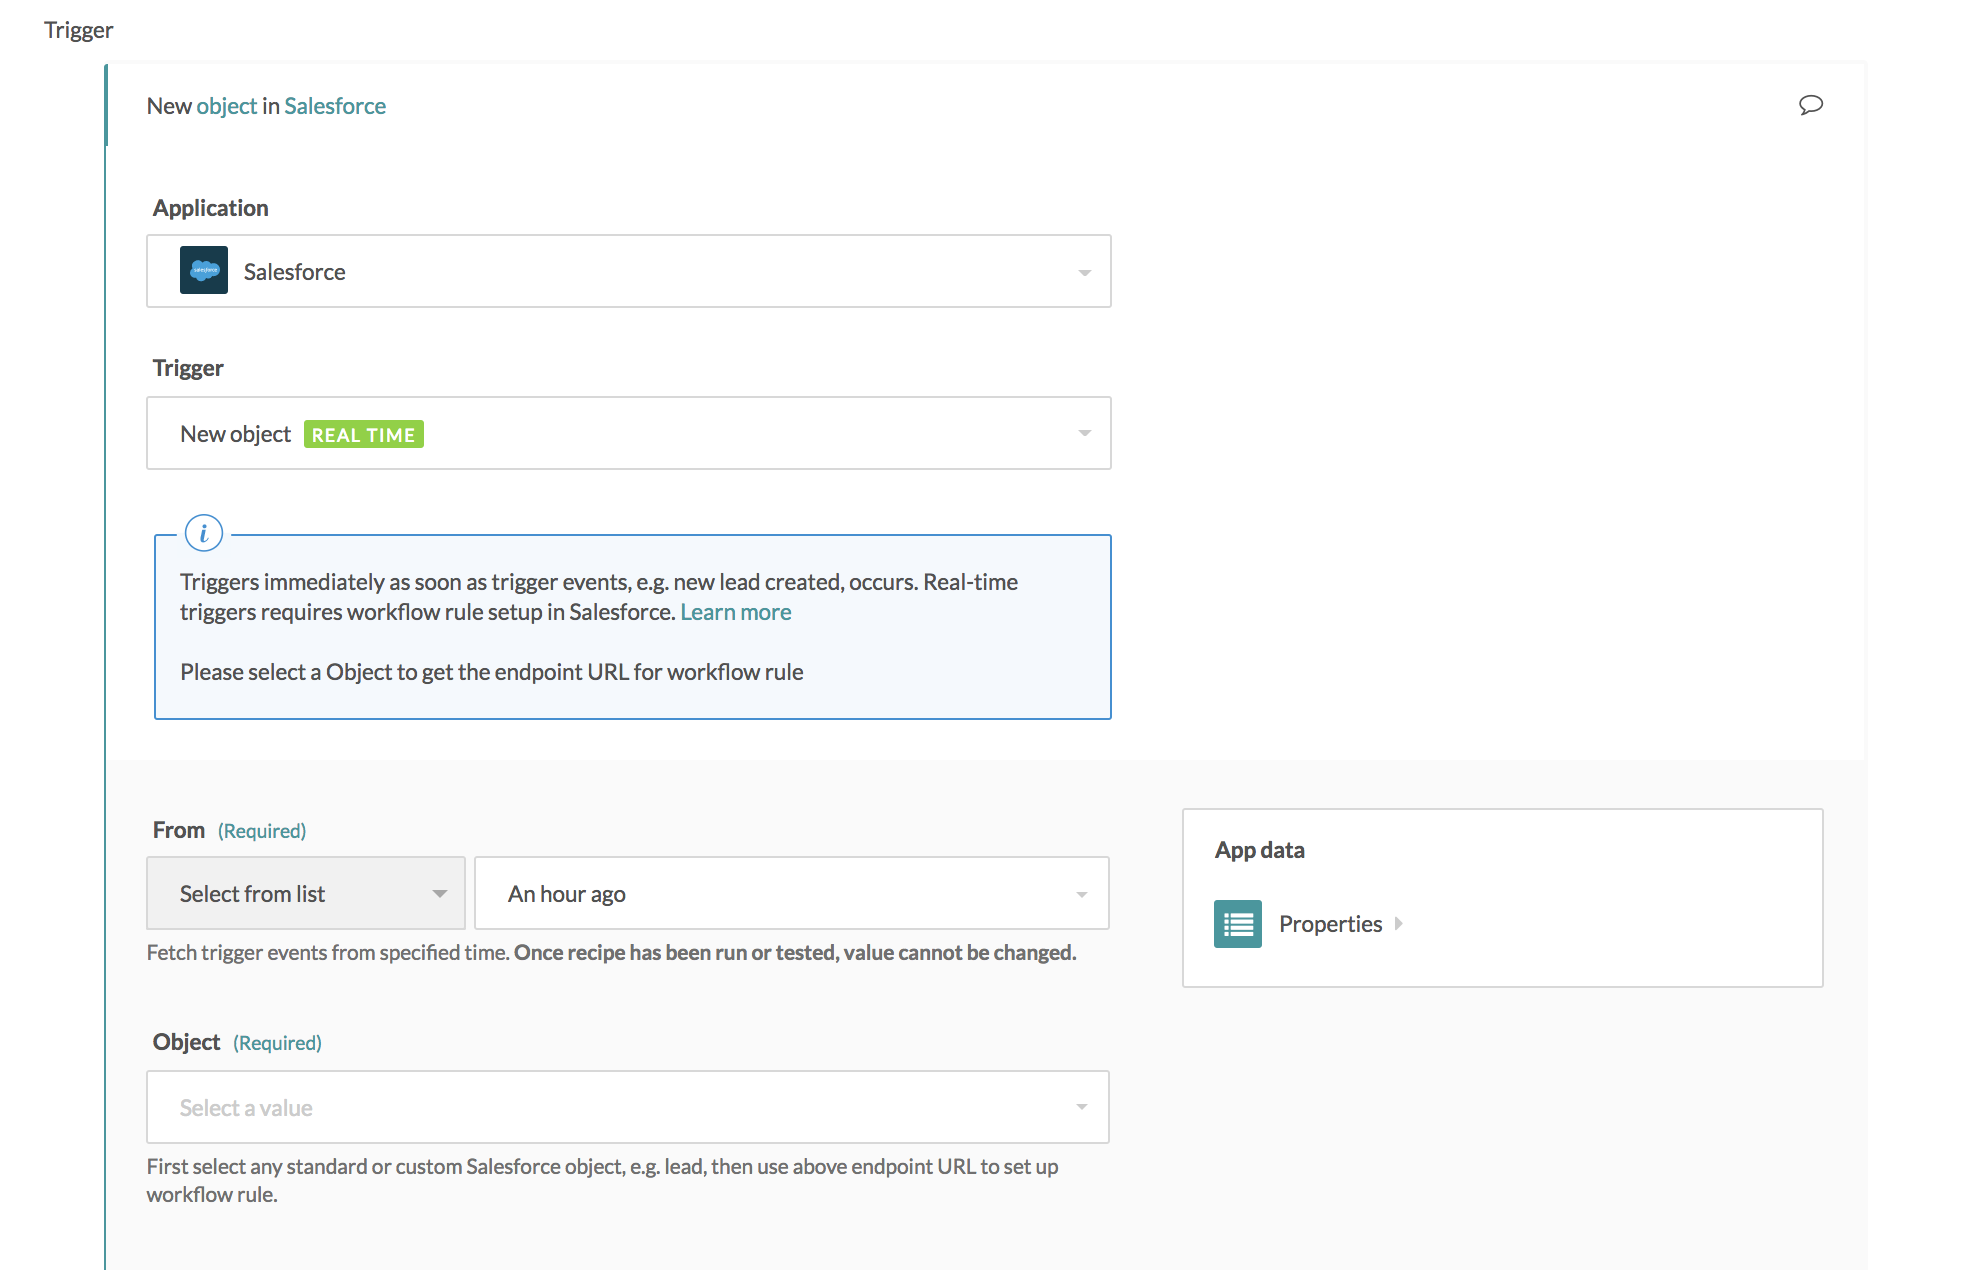
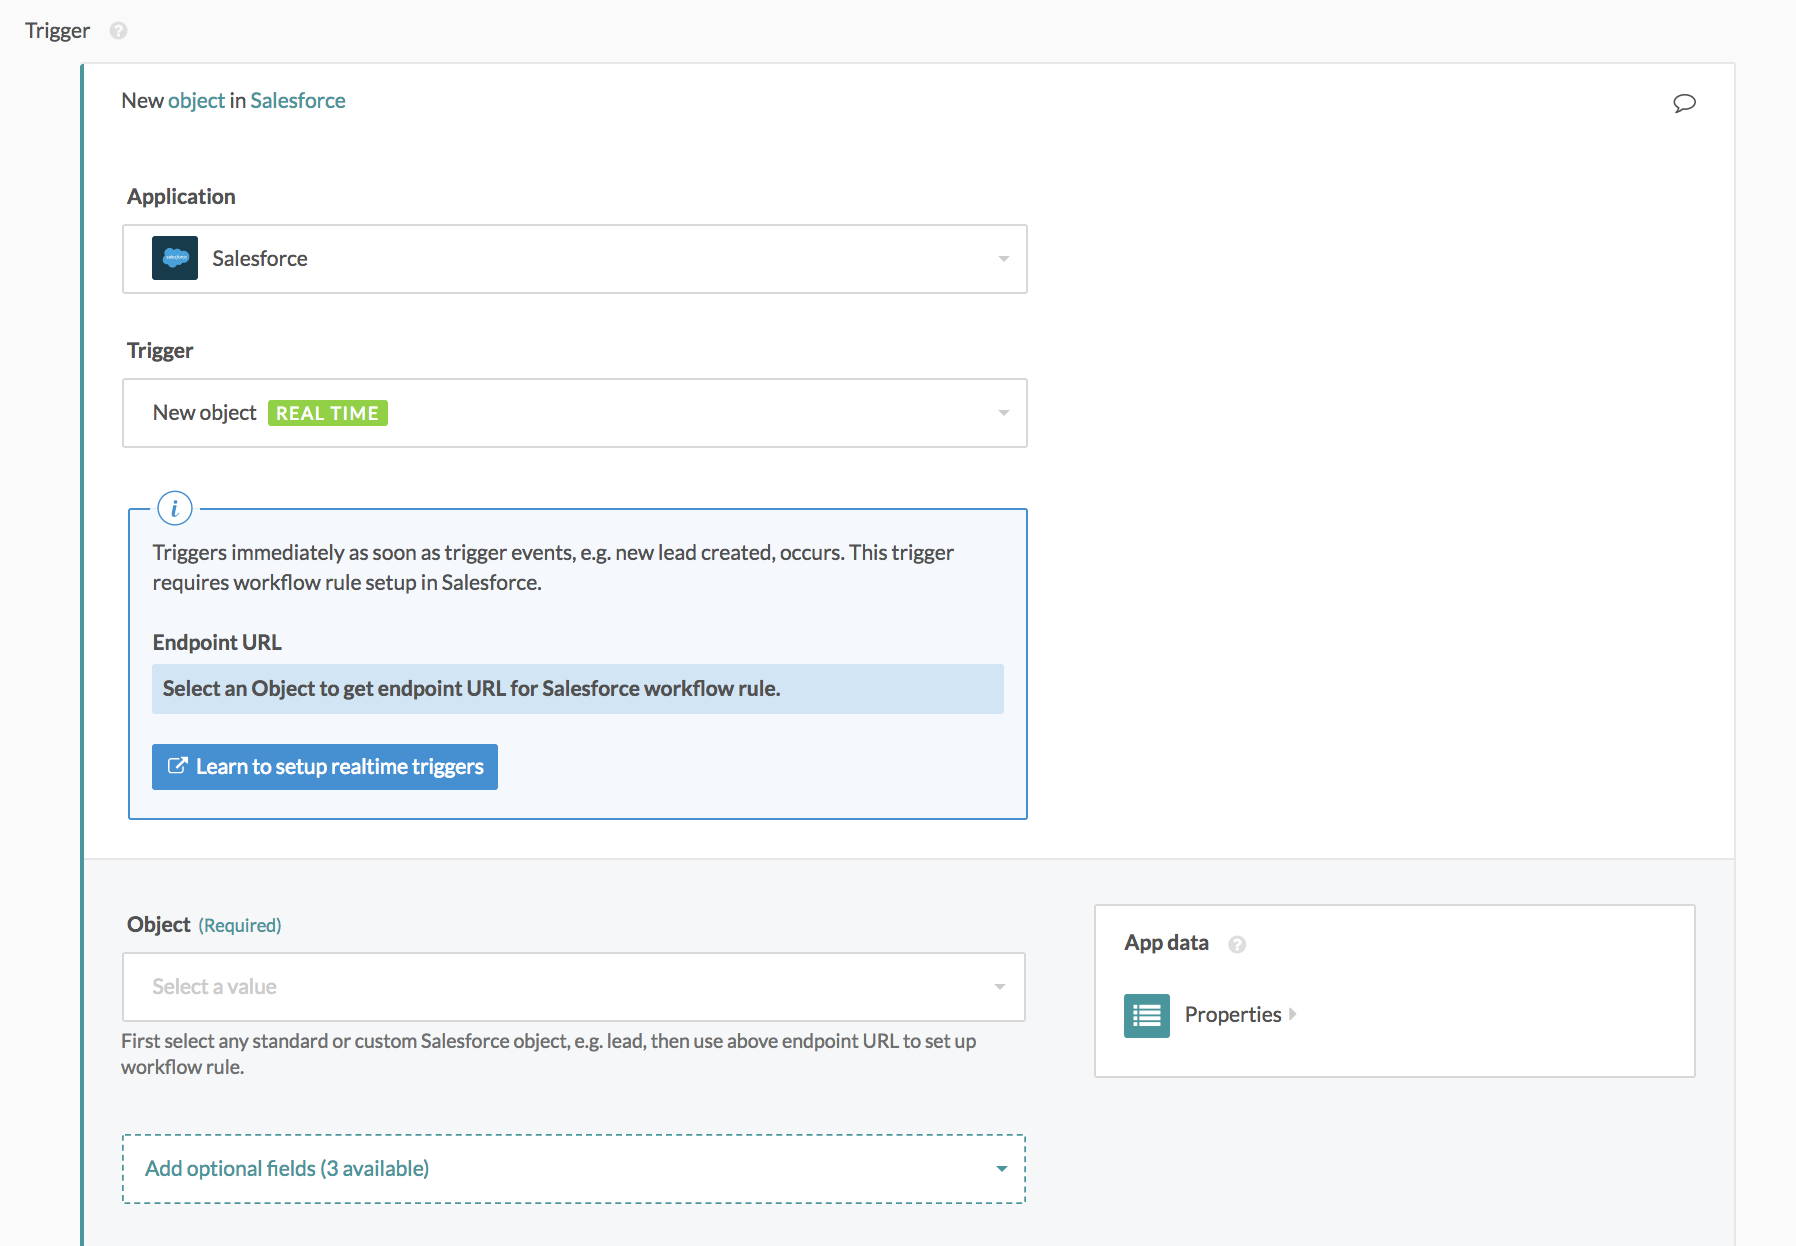
updated screenshots for new RT trigger

diff --git a/connectors/salesforce.md b/connectors/salesforce.md
@@ -200,7 +200,7 @@ This endpoint URL is unique to the Salesforce organization connected to the trig
 
 9) Save the workflow rule and activate it. 
 
-![Activate workflow rule to start monitoring new leads created in Salesforce](/assets/images/salesforce-docs/activating-workflow-rule-new-object-trigger.gif)
+![Activate workflow rule to start monitoring new leads created in Salesforce](/assets/images/salesforce-docs/activating-workflow-rule-new-updated-object-trigger.gif)
 *Activate workflow rule to start monitoring new leads created in Salesforce*
 
 10) Return to Workato and start the recipe. It will now monitor newly created or updated leads in Salesforce and process them as trigger events immediately. If desired, add trigger conditions.
